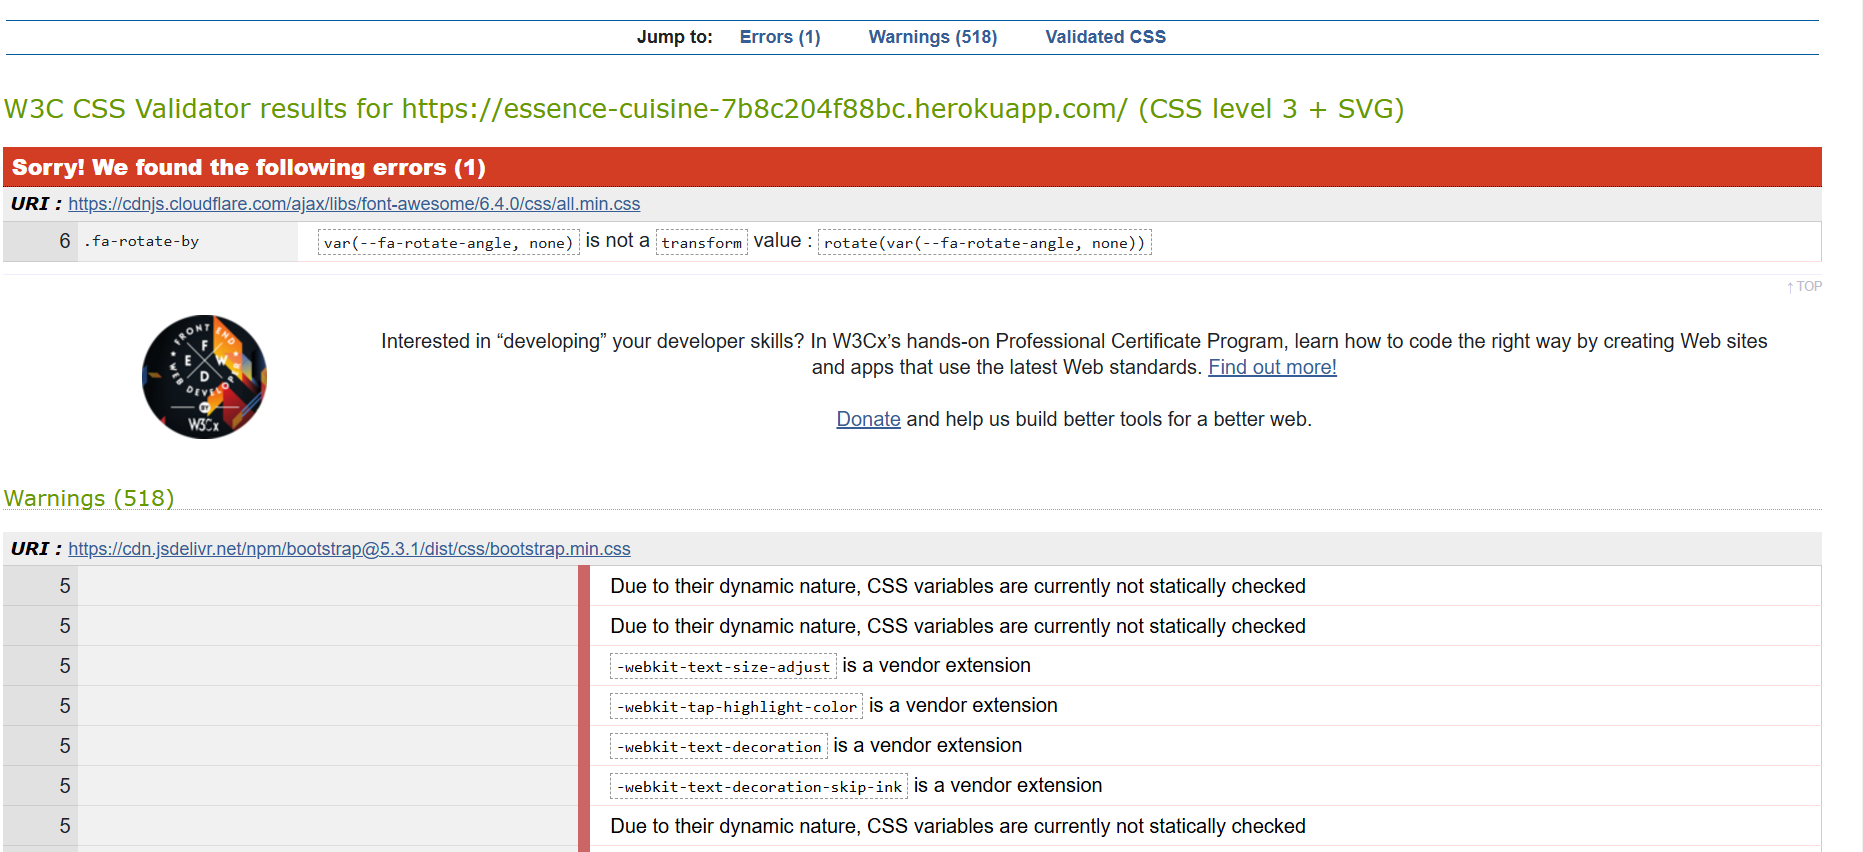
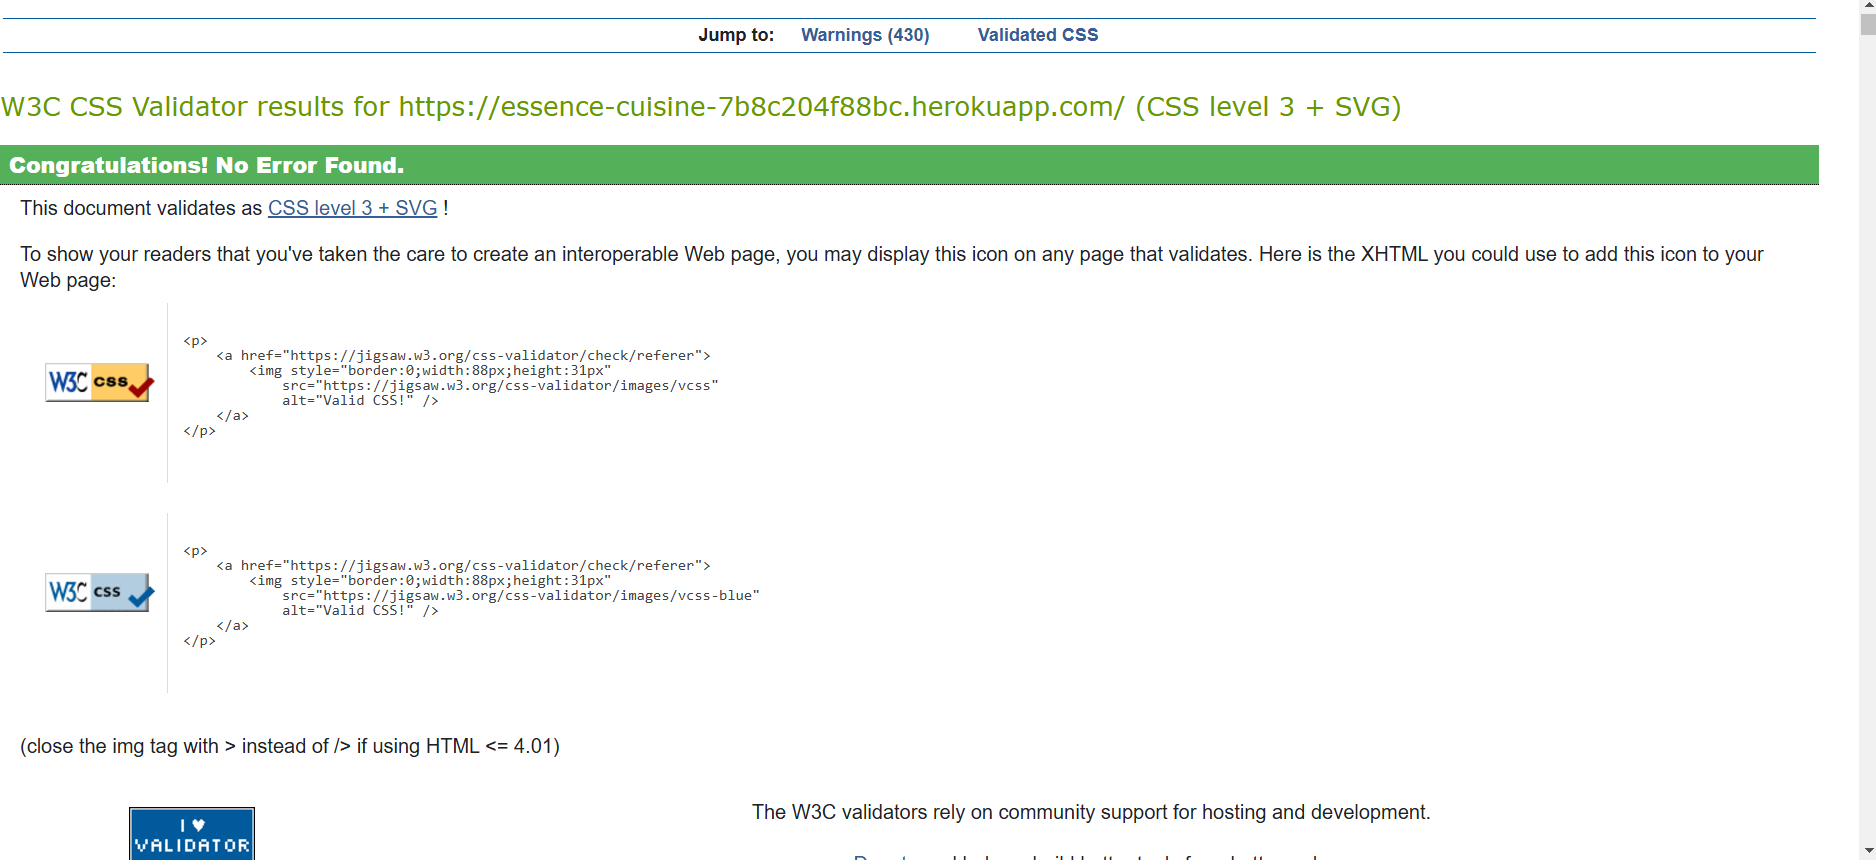
Update css validation screenshot

diff --git a/TESTING.md b/TESTING.md
@@ -23,5 +23,4 @@ I have used the recommended [CSS Jigsaw Validator](https://jigsaw.w3.org/css-val
 
 | Page | screenshot | Notes |                                                                                                 |
 | --- | --- | --- | ----------------------------------------------------------------------------------------------------------|
-| style.css  | ![screenshot](documentation/css-validtion.png) |  I am aware of the error that occurs when running the validation; however, since the error originates from the external bootstrap.min.css, I am unable to do anything about it.|
-| style.css  | ![screenshot](documentation/css-direct-input-validation.png) | Pass: No Errors from my own css|
+| style.css  | ![screenshot](documentation/css-validation.png) |  Pass: No Errors |
